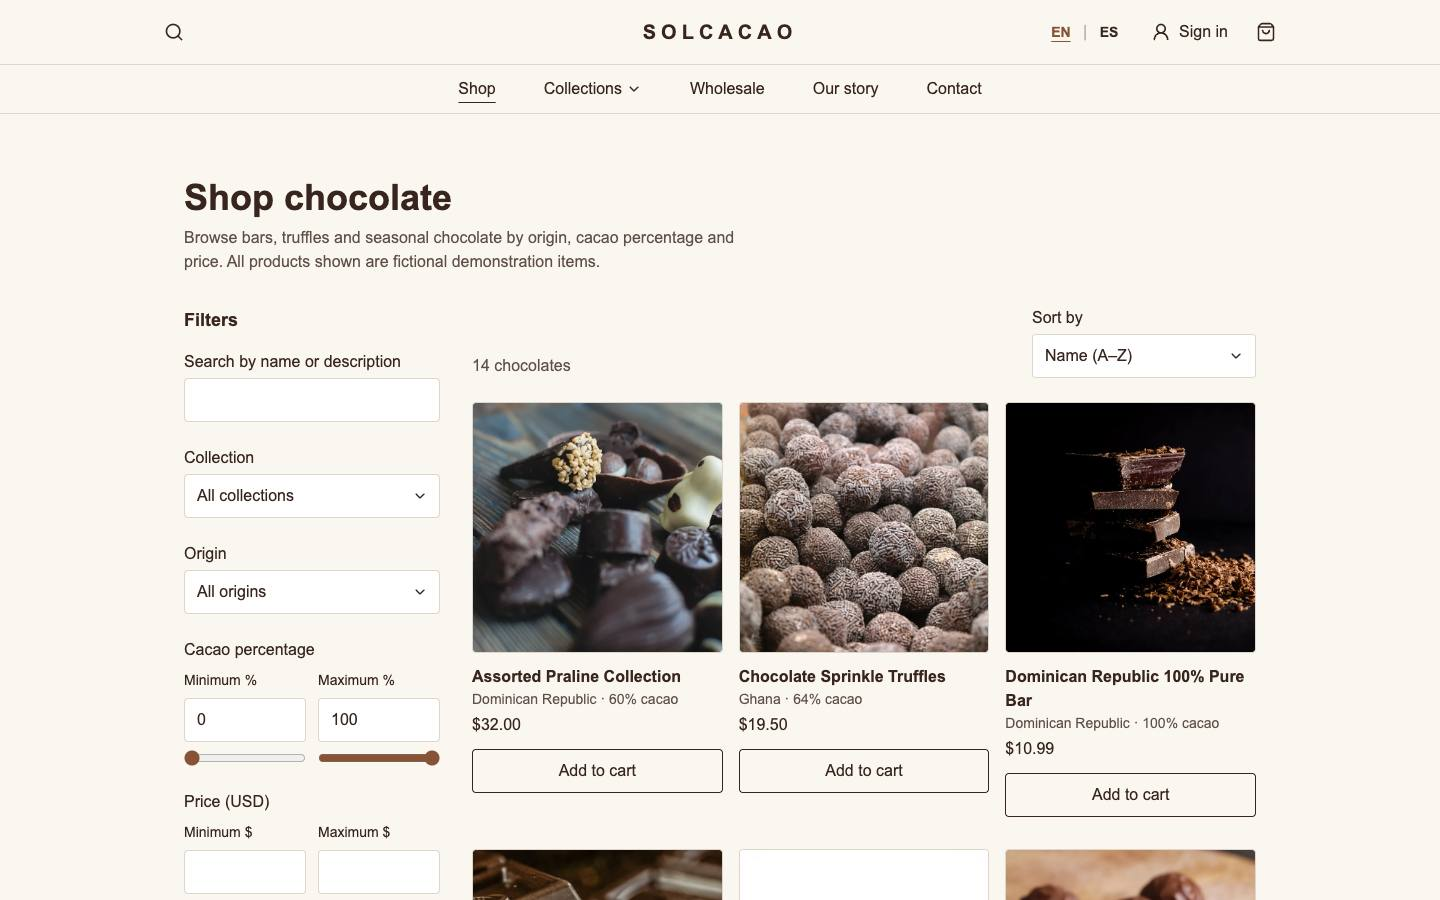
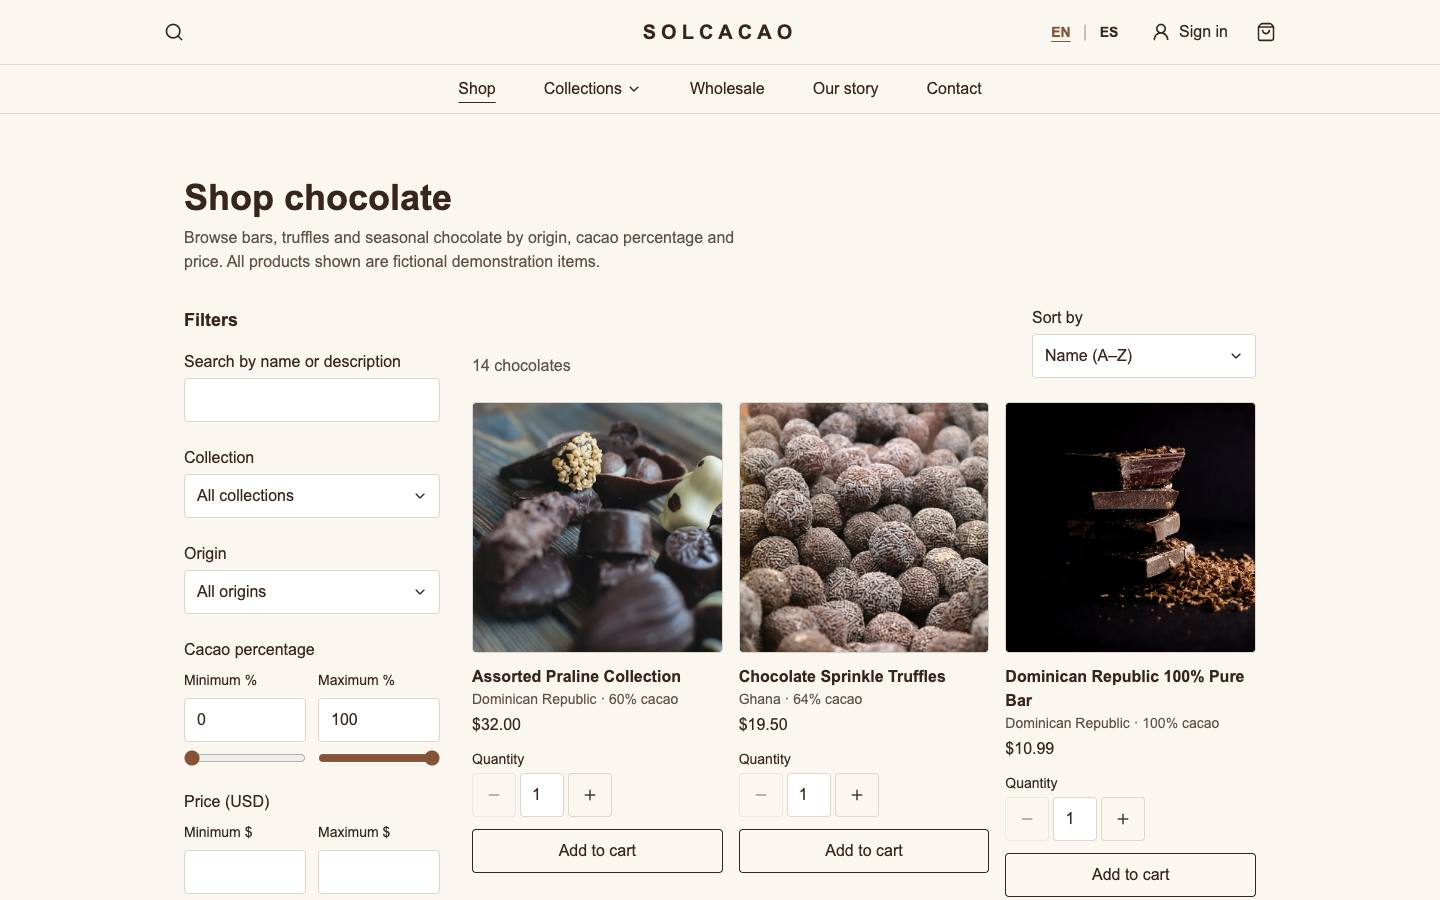
docs: record the Phase 2 release, submission tag and follow-up PRs
- week-4: follow-ups #13-#21 with approvers and merge commits, the
  submission commit 1307a52 (tag phase-2-submission) and the checklist
  re-check; open flake and post-release sync noted.
- Catalog screenshots retaken at 1307a52 to show the #15 quantity picker.
- README/context revision status and Member 2 evidence/status updated.
- Reviewer records appended to Member 1 (#19) and Member 5 (#14, #15)
  status, as for earlier merges.

diff --git a/docs/weekly/week-4.md b/docs/weekly/week-4.md
@@ -22,7 +22,28 @@ Coordinator integration PR #12, approved by danielyglesias and merged as e088f4b
 
 The PR's CI passed (518/518, every member's persistence suite on real MongoDB). The push run after the merge failed before any test: a newer `mongo:8.0` image refuses to start on the runner's Linux 6.19+ kernel (SERVER-121912). A follow-up coordinator PR runs the CI service on `mongo:7.0`; 518/518 passed locally against 7.0.45. `compose.yaml` stays on 8.0 for local development.
 
-Integrated development commit: e088f4b (all five member PRs plus PR #12). The annotated `phase-2-submission` tag marks the commit after the CI follow-up merges.
+Integrated development commit after PR #12: e088f4b (all five member PRs plus PR #12).
+
+Follow-ups merged on 2026-10-28, each approved by someone other than its author:
+
+| PR  | Author         | Change                                                                                                                                                                                                                      | Approved by | Merged                |
+| --- | -------------- | --------------------------------------------------------------------------------------------------------------------------------------------------------------------------------------------------------------------------- | ----------- | --------------------- |
+| #13 | tambevarad     | CI MongoDB service on `mongo:7.0`                                                                                                                                                                                           | Krishr21    | b418035 (development) |
+| #14 | danielyglesias | The sampler clears its pieces and contact fields after a successful enquiry (Member 5 files only)                                                                                                                           | tambevarad  | 4fc8a22 (development) |
+| #15 | danielyglesias | Quantity picker on catalog product cards. It changes Member 3's `ProductCard.tsx` and `CatalogPage.tsx` under a coordinator-approved ownership exception, recorded in the approval review; Member 3 has not reviewed it yet | tambevarad  | abfe61f (development) |
+| #16 | tambevarad     | Release development → main                                                                                                                                                                                                  | Krishr21    | d10153c (main)        |
+| #17 | tambevarad     | `ProductCard` caps the quantity only when the limit changes; this fixes a CI flake from #15                                                                                                                                 | Krishr21    | a27cd79 (development) |
+| #19 | amang26        | Member 1 Phase 1 status record (D21); the member-reported contributions are labelled as such and the prototype/demo blockers stay open                                                                                      | tambevarad  | 2c15fb1 (development) |
+| #20 | tambevarad     | Release development → main (#17, #19)                                                                                                                                                                                       | Krishr21    | 1307a52 (main)        |
+| #21 | tambevarad     | Merges main into development (no file changes) so release PRs satisfy main's up-to-date check                                                                                                                               | Krishr21    | 679c903 (development) |
+
+PR #18 (main → development, no file changes) was closed; #21 does that sync.
+
+**Phase 2 submission commit: 1307a52 on main, annotated tag `phase-2-submission`** (created 2026-10-28 after approval). CI on 1307a52 passed: 531/531 tests, including every member's MongoDB persistence suite, plus typecheck, structure and workflow checks and the build. The coordinator re-checked the tagged commit against the docs/submissions.md Phase 2 checklist on 2026-10-28:
+
+- Every route was checked in EN and ES at 1440 and 375 px, plus the mobile menu, the cart drawer and the signed-in account and quote-wizard pages: 0 console errors or warnings, 0 failed requests, 0 missing translations, no placeholders, no horizontal overflow, one `h1` per page.
+- A fresh clone of the tag with Node 24.19.0 ran `npm ci`, then `npm run dev:client` served `/` and `/es/catalog`.
+- The catalog screenshots were refreshed to show the #15 quantity picker.
 
 Demo observations (coordinator walkthrough in mock mode, not the academic demo):
 
@@ -38,13 +59,15 @@ Contract changes and affected owners: none (contractVersion 2). Two shared chang
 
 - `t(key, values)` interpolation (D20, all members).
 - The cross-origin pagination headers are exposed via CORS (Members 1 and 3).
+- #15 and #17 changed Member 3's `ProductCard.tsx` and `CatalogPage.tsx`; the private `ProductCard` props changed, with no DTO or HTTP change. Member 3 can still request changes in a follow-up PR.
 
 Blockers and next week:
 
-- Phase 1 status is still unrecorded for each member (D21).
+- Phase 1 status is still unrecorded for Members 2–5. Member 1 recorded it in #19, with the prototype URL and Teams demo still open (D21).
+- An occasional CI flake remains: `CartProvider`'s sign-in merge can outlive `tests/member-1/pages.test.tsx` (`window is not defined`). The fix needs Member 1 or Member 3.
 - Phase 3 binds the UI to the real API.
 - Phase 4 covers code splitting and deployment.
 - The team still needs a real WhatsApp number.
-- A release PR development → main follows the CI follow-up.
+- After each release merge, merge main back into development through a reviewed PR (as in #21) before the next release PR.
 
 Do not prefill a review, attendance, commit or success that did not occur.

diff --git a/team/member-2/phase-2-evidence.md b/team/member-2/phase-2-evidence.md
@@ -116,9 +116,22 @@ Checks run on the integrated code (coordinator branch for PR #12, on top of fc8e
   - without a JWT secret it refuses to start with a clear message.
 - **Screenshots:** desktop (1440) and mobile (375) of every member's key pages, the cart drawer and the mobile menu are in `docs/phase2/screenshots/`. No console errors.
 
+## Release and submission (2026-10-28)
+
+- **Follow-ups:** #13 (CI on `mongo:7.0`), #14 and #15 (Member 5: sampler reset; catalog quantity picker under a coordinator-approved exception for Member 3's files), #17 (quantity clamp race), #19 (Member 1 Phase 1 record) and #21 (main → development sync). Each was approved by someone other than its author. The full table is in `docs/weekly/week-4.md`.
+- **Releases to main:** #16 (d10153c) and #20 (1307a52), both approved by Krishr21 and merged with merge commits so every author keeps their commits. GitHub's contributors list now shows all five members.
+- **Submission:** annotated tag `phase-2-submission` on 1307a52. CI on that commit passed 531/531 with every member's MongoDB persistence suite.
+- **Re-check of the tagged commit against the docs/submissions.md Phase 2 checklist:**
+  - Every route in EN/ES at 1440 and 375, plus the mobile menu, the cart drawer and the signed-in account and quote-wizard pages: 0 console errors or warnings, 0 failed requests, 0 missing translations, no placeholders, no overflow, one `h1` per page.
+  - A fresh clone with `npm ci` and `npm run dev:client` served the site.
+  - The catalog screenshots were retaken to show the quantity picker.
+- **CI flakes found during the release:**
+  - The #15 quantity race was fixed in #17.
+  - `CartProvider`'s sign-in merge outliving `tests/member-1/pages.test.tsx` (`window is not defined`) is still open for Members 1 and 3. An unmount guard in `CartProvider` would break the StrictMode remount in development.
+
 ## Known limitations
 
-- Each member's Phase 1 status is still unrecorded (D21).
+- Phase 1 status is still unrecorded for Members 2–5 (D21). Member 1 recorded it in #19, with the prototype and demo still open.
 - The public asset router is not mounted (Phase 3/4). Production serving of `dist/client` belongs to Phase 4 deployment.
 - The bundle exceeds Vite's 500 kB advisory; code splitting is Phase 4.
 - WhatsApp needs a real business number.
@@ -126,5 +139,5 @@ Checks run on the integrated code (coordinator branch for PR #12, on top of fc8e
 
 ## Review
 
-PRs: #3, #6, #7 and #8 merged after Krishr21's approval; integration PR #12 is in review.
-Integrated commit for the five member PRs: fc8ee86 on development.
+PRs: #3, #6, #7 and #8 merged after Krishr21's approval. Integration PR #12 was approved by danielyglesias and merged as e088f4b. #13, #16, #17, #20 and #21 were approved by Krishr21.
+Integrated commit for the five member PRs: fc8ee86 on development. Phase 2 submission commit: 1307a52 on main (tag `phase-2-submission`).

diff --git a/context.md b/context.md
@@ -57,4 +57,4 @@ No production content in this template. The included clearly labeled fictional f
 
 ## Revision status
 
-The audited template was published to GitHub and merged into development through PR #1 (codex-requirements-audit) and PR #2 (Phase 1 schema/ERD alignment). Students create their branches from development with npm run setup. Phase 2 is integrated on development: the shell foundation (PR #3), Student 4 (PR #5), Student 3 (PR #9), Student 5 (PR #10) and Student 1 (PR #11) merged after peer approval, and the coordinator integration PR wired Student 1's middleware and Student 5's notifyQuote into the catalog and B2B routers and added a CI MongoDB service; see docs/weekly/week-4.md. Branch protection on development and main requires one approval and the CI check, admins included. main remains stable and is updated only through a release PR. No reviewer identity, branch protection or submission is recorded here unless it actually happened. See docs/github-setup.md.
+The audited template was published to GitHub and merged into development through PR #1 (codex-requirements-audit) and PR #2 (Phase 1 schema/ERD alignment). Students create their branches from development with npm run setup. Phase 2 is integrated on development: the shell foundation (PR #3), Student 4 (PR #5), Student 3 (PR #9), Student 5 (PR #10) and Student 1 (PR #11) merged after peer approval, and the coordinator integration PR wired Student 1's middleware and Student 5's notifyQuote into the catalog and B2B routers and added a CI MongoDB service. Phase 2 was released to main through reviewed release PRs #16 and #20 and tagged `phase-2-submission` at 1307a52; see docs/weekly/week-4.md. Branch protection on development and main requires one approval and the CI check, admins included. main remains stable and is updated only through a release PR. No reviewer identity, branch protection or submission is recorded here unless it actually happened. See docs/github-setup.md.

diff --git a/README.md b/README.md
@@ -40,4 +40,4 @@ npm ci, npm run check, npm run build. Browser tests require npx playwright insta
 
 ## Revision status
 
-The audited template is on GitHub and merged into development through PR #1 and PR #2. All five members' Phase 2 PRs (#3, #5, #9, #10 and #11) and the coordinator integration PR are merged into development; the record is docs/weekly/week-4.md. main is updated only through a reviewed release PR. Branch protection settings and a hosted external prototype are not claimed here. Academic Phase1 draft artifacts require team completion/review and a real MarvelApp/MockFlow prototype. No prompts can guarantee error-free code or supply human approvals; the repository makes contracts, dependencies and checks explicit.
+The audited template is on GitHub and merged into development through PR #1 and PR #2. All five members' Phase 2 PRs (#3, #5, #9, #10 and #11), the coordinator integration PR and the follow-ups are merged into development. Phase 2 was released to main through reviewed release PRs #16 and #20; the submission commit is 1307a52, tag `phase-2-submission`. The record is docs/weekly/week-4.md. main is updated only through a reviewed release PR. Branch protection settings and a hosted external prototype are not claimed here. Academic Phase1 draft artifacts require team completion/review and a real MarvelApp/MockFlow prototype. No prompts can guarantee error-free code or supply human approvals; the repository makes contracts, dependencies and checks explicit.

diff --git a/docs/phase2/README.md b/docs/phase2/README.md
@@ -1,6 +1,6 @@
 # Phase 2 submission evidence
 
-Mock-mode screenshots of every member's pages at desktop (1440 × 900) and mobile (375 × 812), captured on 2026-10-28 from the integrated code (development fc8ee86 plus integration PR #12) with no console errors. Sign-in, persistence and notifications are mocked in the browser at this stage.
+Mock-mode screenshots of every member's pages at desktop (1440 × 900) and mobile (375 × 812), captured on 2026-10-28 from the integrated code (development fc8ee86 plus integration PR #12) with no console errors. Both `02-catalog` shots were retaken the same day at the submission commit (1307a52, tag `phase-2-submission`) to show the quantity picker added in #15; the other pages did not change. Sign-in, persistence and notifications are mocked in the browser at this stage.
 
 | File (desktop- / mobile-) | Page                               | Owner    |
 | ------------------------- | ---------------------------------- | -------- |
